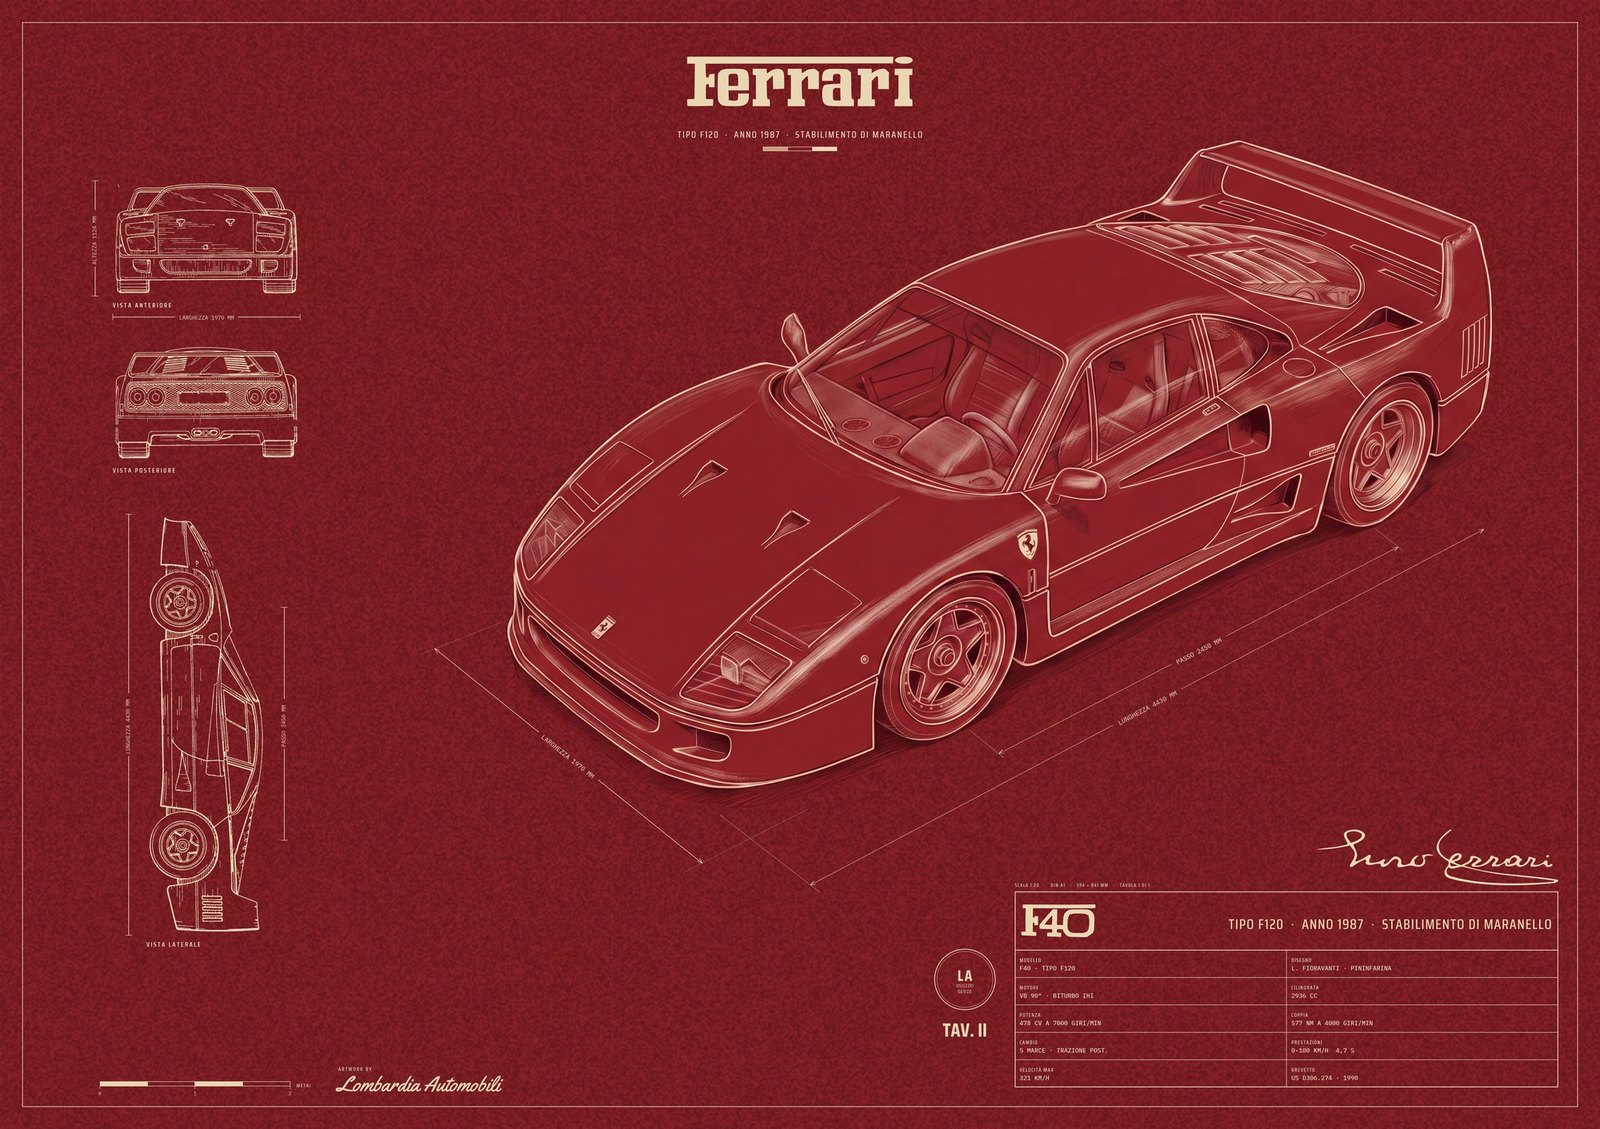
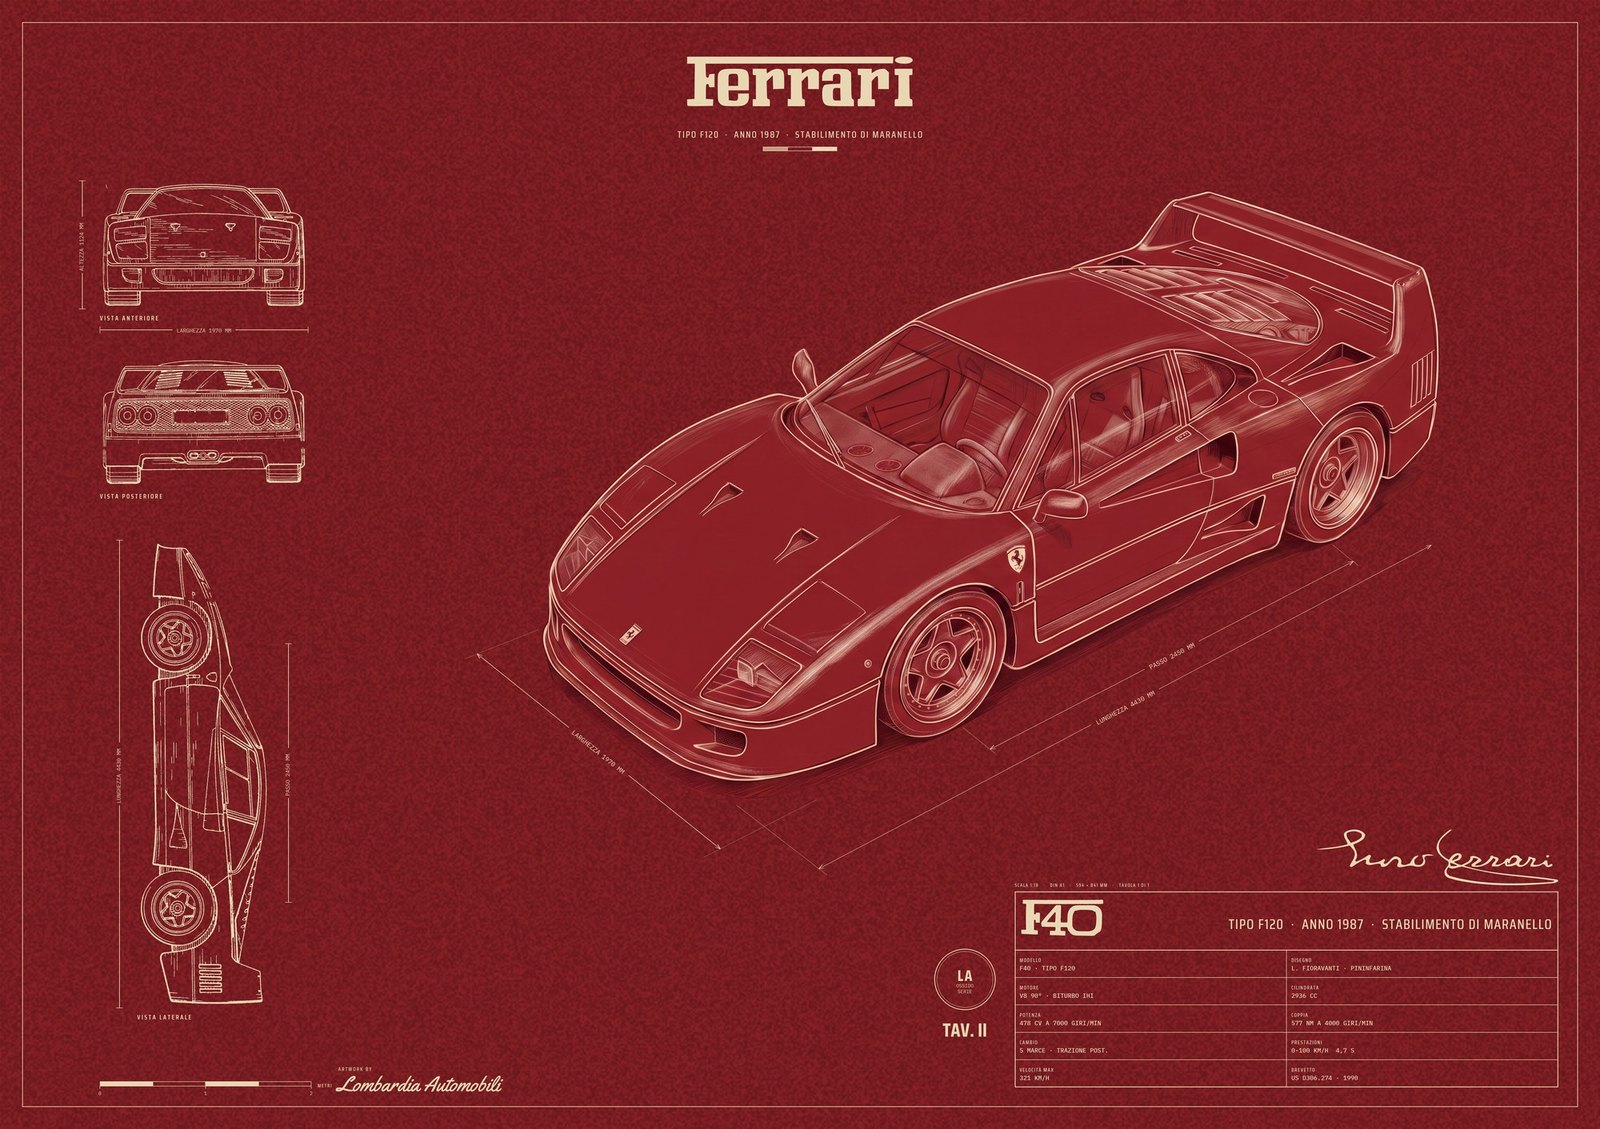
Publish the lot board

diff --git a/house/index.html b/house/index.html
@@ -20,7 +20,7 @@ a{color:#ffd28a}
 
 <h2 id="poster">The poster</h2>
 <p>Tap a sheet for the full 9933 x 7016 file. Only the car is generated; every line, figure, letter and rule is drawn. Checks under each sheet are measured, not eyeballed.</p>
-<figure><a href="img/f40-ossido-landscape-A1.jpg?v=1788459814"><img src="img/f40-ossido-landscape.jpg?v=1788459814" alt="f40-ossido-landscape"></a><figcaption>THE SHEET · Round 5 B (nano-banana-2-edit, 8 references): car regenerated alone on the ground, drawn apparatus; Ferrari wordmark centred, F40 lettering in the spec box, TAV and LA above it · <a href="img/f40-ossido-landscape-A1.jpg?v=1788459814">full A1 file</a></figcaption><table class="chk"><tr><td>size</td><td>9933 x 7016</td><td class="ok">pass</td></tr><tr><td>ratio</td><td>1.4158</td><td class="ok">pass</td></tr><tr><td>edge white % (t/b/l/r)</td><td>0.0 / 0.0 / 0.0 / 0.0</td><td class="ok">pass</td></tr><tr><td>edge mean rgb (top)</td><td>[120, 28, 33]</td><td class="ok">pass</td></tr><tr><td>car box vs source, % of sheet</td><td>x0 0.0 · y0 0.29 · x1 0.0 · y1 -0.21 · IoU 0.9917</td><td class="ok">pass</td></tr><tr><td>ground sampled from render</td><td>[139, 33, 39]</td><td class="ok">pass</td></tr><tr><td>library used</td><td>{&quot;wordmark&quot;: &quot;ferrari-wordmark-mask-4k.png&quot;, &quot;model_asset&quot;: &quot;f40-model-mask.png&quot;, &quot;model_h&quot;: &quot;253&quot;, &quot;_library_entry&quot;: &quot;Ferrari&quot;}</td><td class="ok">pass</td></tr></table></figure>
+<figure><a href="img/f40-ossido-landscape-A1.jpg?v=1788460021"><img src="img/f40-ossido-landscape.jpg?v=1788460021" alt="f40-ossido-landscape"></a><figcaption>THE SHEET · Round 5 B (nano-banana-2-edit, 8 references): car regenerated alone on the ground, drawn apparatus; Ferrari wordmark centred, F40 lettering in the spec box, TAV and LA above it · <a href="img/f40-ossido-landscape-A1.jpg?v=1788460021">full A1 file</a></figcaption><table class="chk"><tr><td>size</td><td>9933 x 7016</td><td class="ok">pass</td></tr><tr><td>ratio</td><td>1.4158</td><td class="ok">pass</td></tr><tr><td>edge white % (t/b/l/r)</td><td>0.0 / 0.0 / 0.0 / 0.0</td><td class="ok">pass</td></tr><tr><td>edge mean rgb (top)</td><td>[120, 28, 33]</td><td class="ok">pass</td></tr><tr><td>car box vs source, % of sheet</td><td>x0 0.0 · y0 0.19 · x1 -0.02 · y1 -0.19 · IoU 0.9928</td><td class="ok">pass</td></tr><tr><td>ground sampled from render</td><td>[139, 33, 39]</td><td class="ok">pass</td></tr><tr><td>library used</td><td>{&quot;wordmark&quot;: &quot;ferrari-wordmark-mask-4k.png&quot;, &quot;model_asset&quot;: &quot;f40-model-mask.png&quot;, &quot;model_h&quot;: &quot;253&quot;, &quot;_library_entry&quot;: &quot;Ferrari&quot;}</td><td class="ok">pass</td></tr></table></figure>
 
 <h2 id="cands">Car candidates</h2>
 <p>Car-only generations from the prompt extracted out of gen 362. IoU is the car box against gen 362's own car box; stray ink is anything the model drew outside the car.</p>
